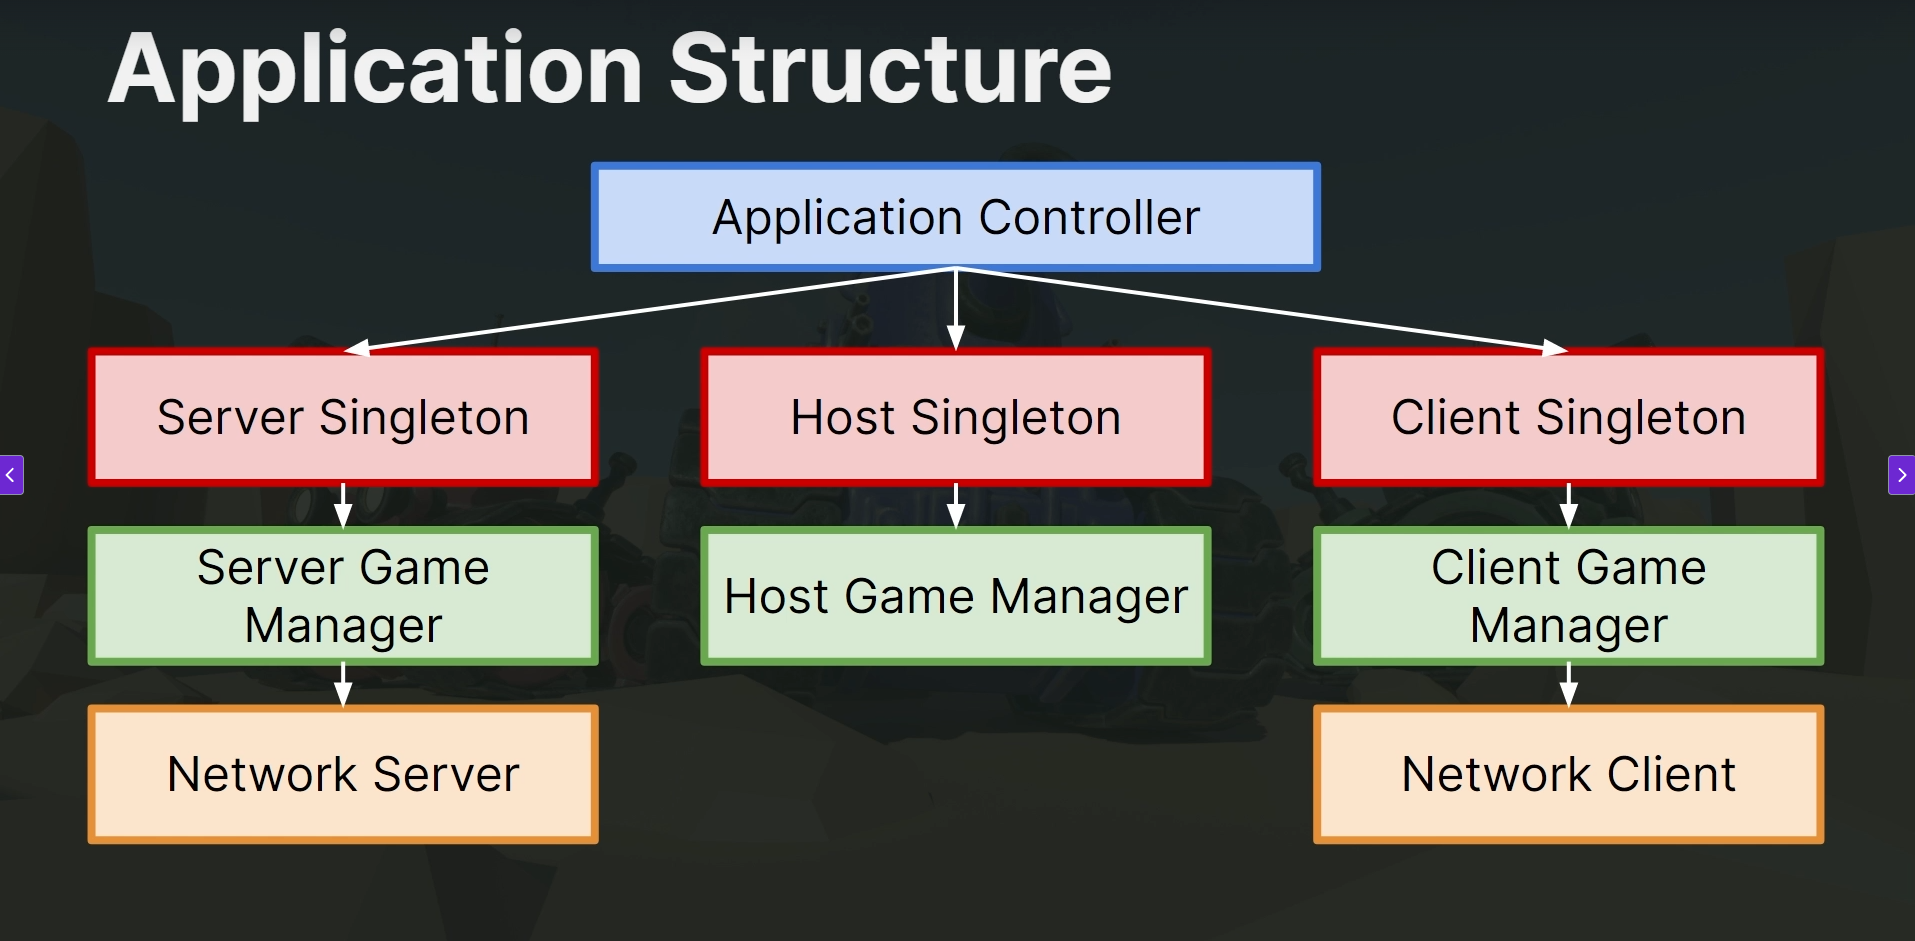
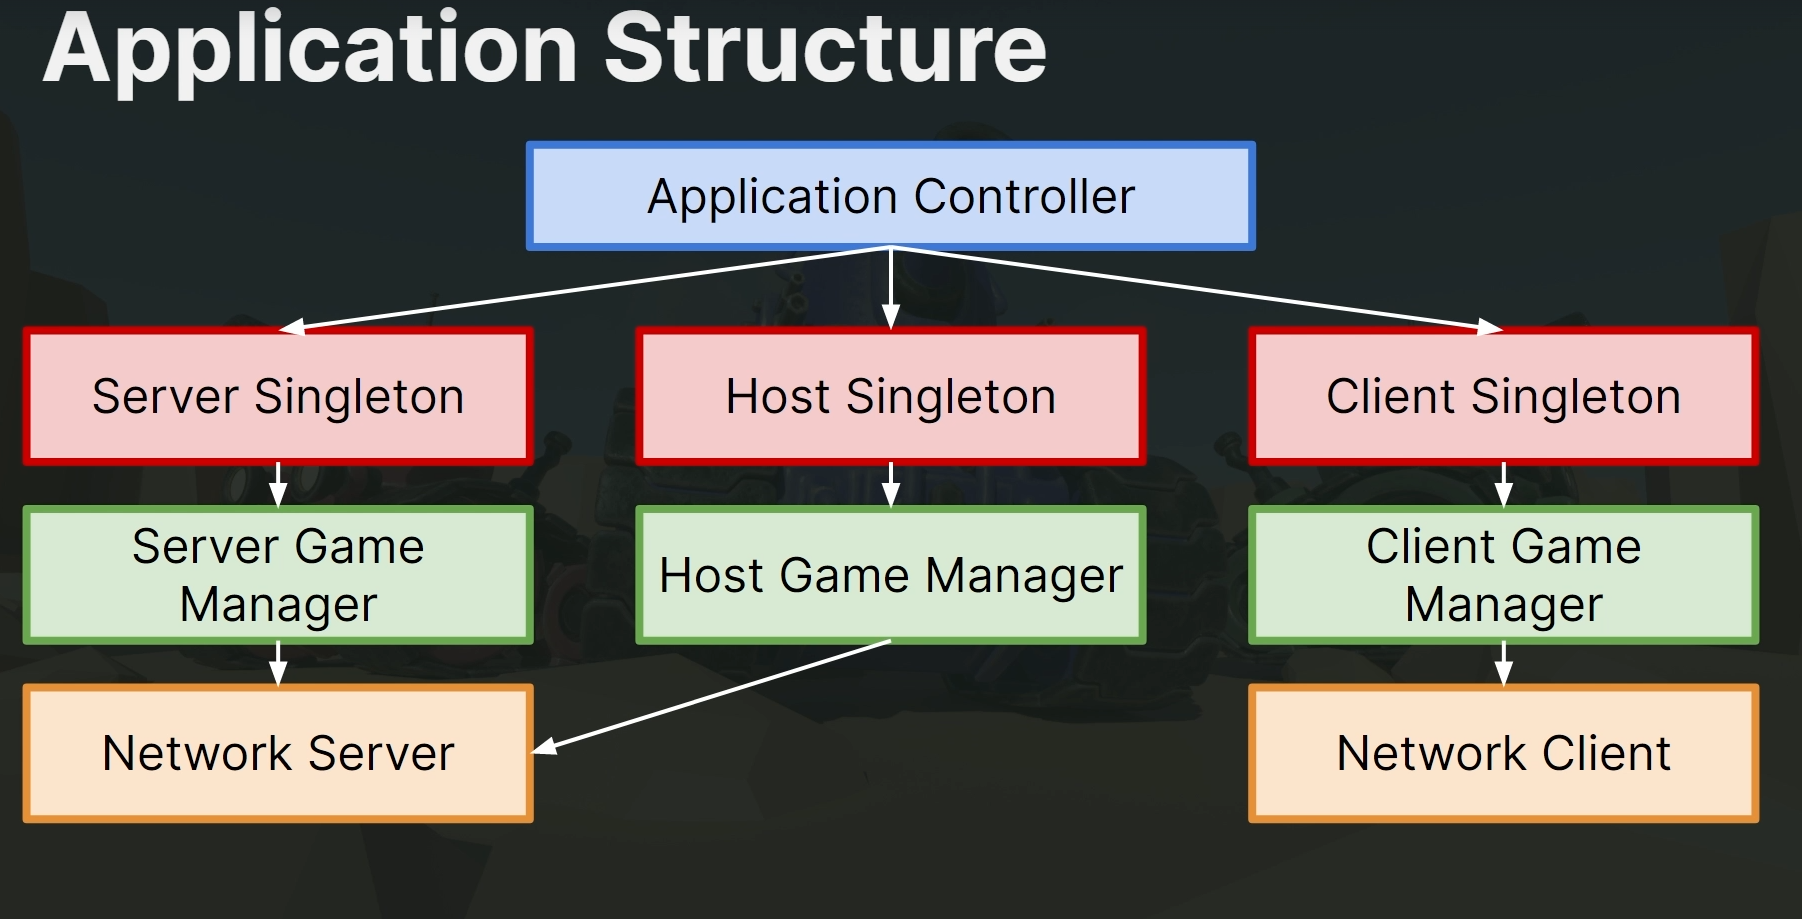
Section 3 - Lecture 29 UGS Relay setup

Changed region(s): [[0.0, 0.1523, 1.0, 0.914], [0.0, 0.0, 0.5905, 0.1219]]

diff --git a/Assets/Scripts/Networking/Client/AuthenticationWrapper.cs b/Assets/Scripts/Networking/Client/AuthenticationWrapper.cs
@@ -40,14 +40,14 @@ public static class AuthenticationWrapper
                     break;
                 }
             }
-            catch (AuthenticationException ex1) // Authentication fail server side
+            catch (AuthenticationException authException) // Authentication fail server side
             {
-                Debug.LogError(ex1.Message);
+                Debug.LogError(authException.Message);
                 AuthState = Authstate.Error;
             }
-            catch (RequestFailedException ex2) // no internet exception catch
+            catch (RequestFailedException requestException) // no internet exception catch
             {
-                Debug.LogError(ex2.Message);
+                Debug.LogError(requestException.Message);
                 AuthState = Authstate.Error;
             }
             reTries++;

diff --git a/AGENTS.md b/AGENTS.md
@@ -2,7 +2,7 @@
 - Project name: MultiPlayerTanks
 - Unity version: Unity 6000.2.9f1
 - Active game object:
-  - Name: HostManager
+  - Name: NetworkManager
   - Tag: Untagged
   - Layer: Default
 <!-- UNITY CODE ASSIST INSTRUCTIONS END -->
